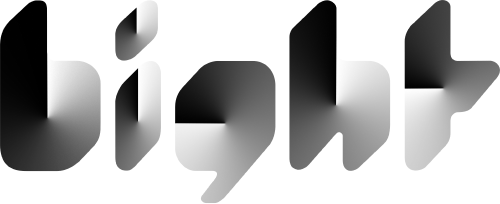
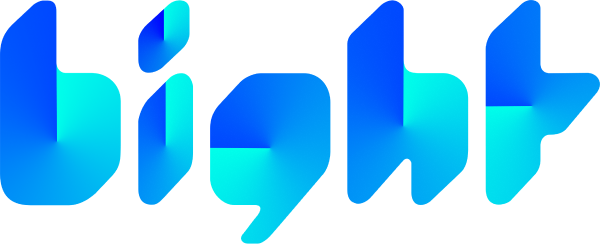
color

diff --git a/src/pages/index.tsx b/src/pages/index.tsx
@@ -1,6 +1,6 @@
 import { useState, useEffect } from "react";
 import Image from "next/image";
-import bight from "./../../public/bit.png";
+import bight from "./../../public/bits.png";
 import b from "./../../public/icons.png";
 import Form from "../components/Form";
 import Backgr from "@/components/Backgr";
